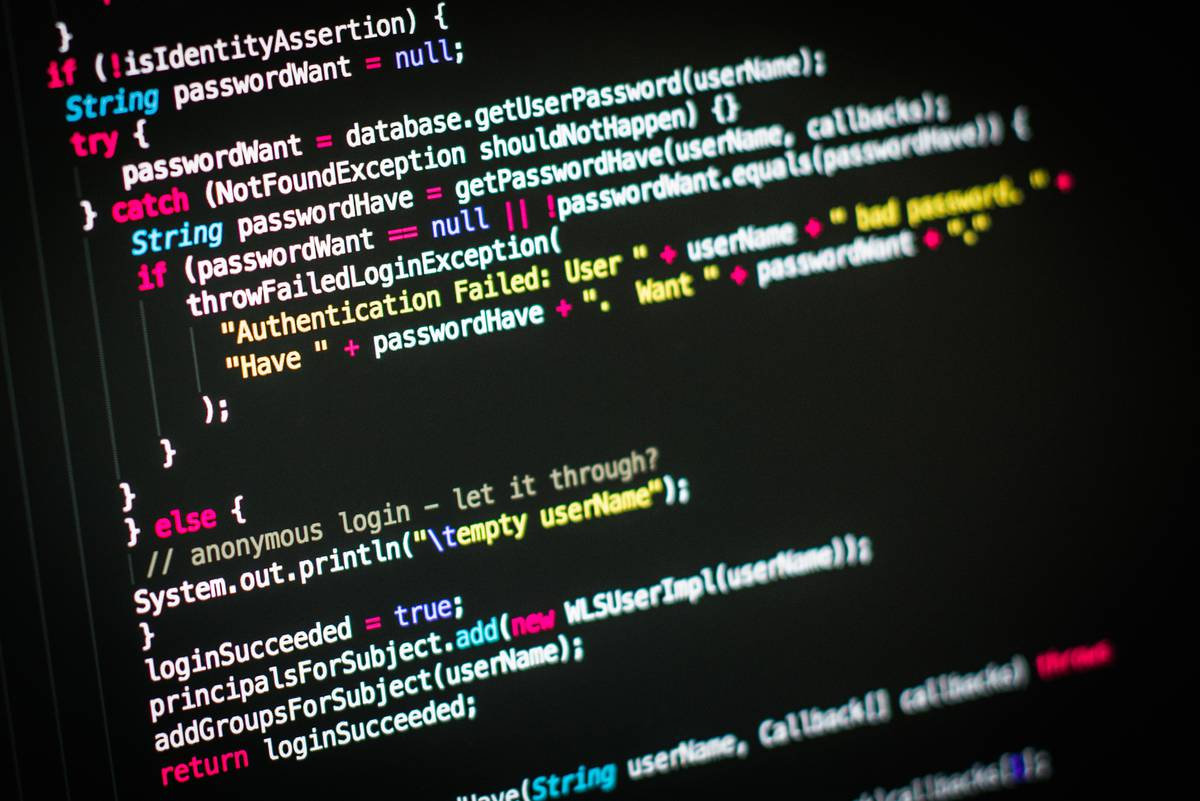
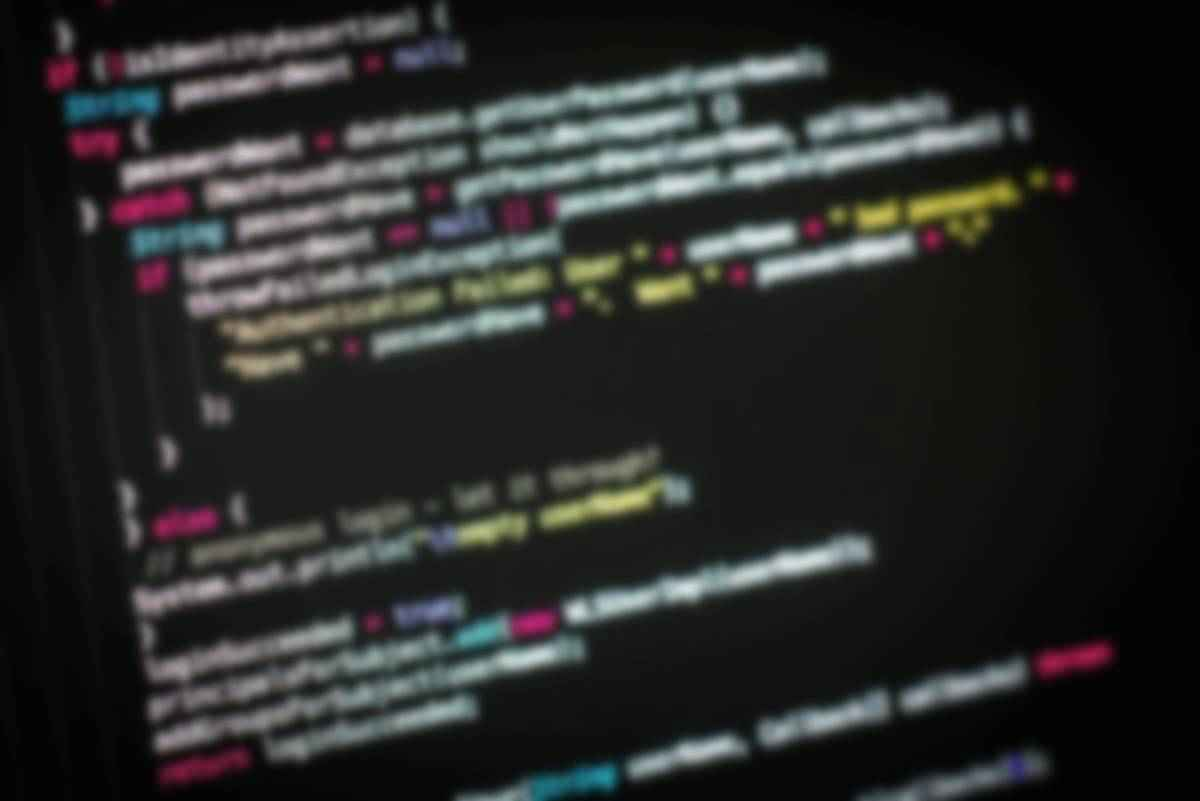
performance improvments 1. remove normalize 2. preload HP bg image. 3. load fonts before css. 4. update gems

diff --git a/assets/css/index.scss b/assets/css/index.scss
@@ -3,8 +3,6 @@
 @import "animations";
 @import "extends";
 @import "mixins";
-@import url('https://fonts.googleapis.com/css?family=Anton');
-@import url('https://fonts.googleapis.com/css?family=Roboto');
 
 @keyframes fadeIn {
   0% { opacity: 0; }
@@ -73,7 +71,6 @@ header {
 
   .about-bg {
     @include coverImage("{{ site.url }}/assets/images/code-bg.jpg");
-    filter: grayscale(60%) blur(5px);
     height: 100%;
     width: 100%;
 

diff --git a/_includes/global_styles.html b/_includes/global_styles.html
@@ -1,2 +1,2 @@
-<link rel="stylesheet" href="https://cdnjs.cloudflare.com/ajax/libs/normalize/8.0.0/normalize.min.css">
+<link href="https://fonts.googleapis.com/css?family=Anton" rel="stylesheet">
 <link href="https://fonts.googleapis.com/css?family=Roboto" rel="stylesheet">

diff --git a/_layouts/default.html b/_layouts/default.html
@@ -7,7 +7,7 @@
   {% for f in page.css_files %}
     {% capture path %}/assets/css/{{ f }}.css{% endcapture %}
     <link rel="stylesheet" href={{ path | absolute_url }}>
-  {% endfor %}  
+  {% endfor %}
 
   <body>
     {{ content }}

diff --git a/assets/css/global.scss b/assets/css/global.scss
@@ -1,8 +1,15 @@
 ---
 ---
 body, html {
-  height: 100%;
   font-family: 'Roboto', sans-serif;
+  height: 100%;
+  line-height: 1.15;
+  margin: 0;
+  -webkit-text-size-adjust: 100%;
+}
+
+img {
+  border-style: none;
 }
 
 * {

diff --git a/index.md b/index.md
@@ -7,6 +7,8 @@ name: home
 css_files: [global, index]
 js_files: [index]
 ---
+<link rel="preload" href="{{ site.url }}/assets/images/code-bg.jpg" as="image">
+
 <header>
   <span class="menu" onclick="jumpTo('about')">About</span>
   <span class="menu" onclick="jumpTo('skills')">Skills</span>
